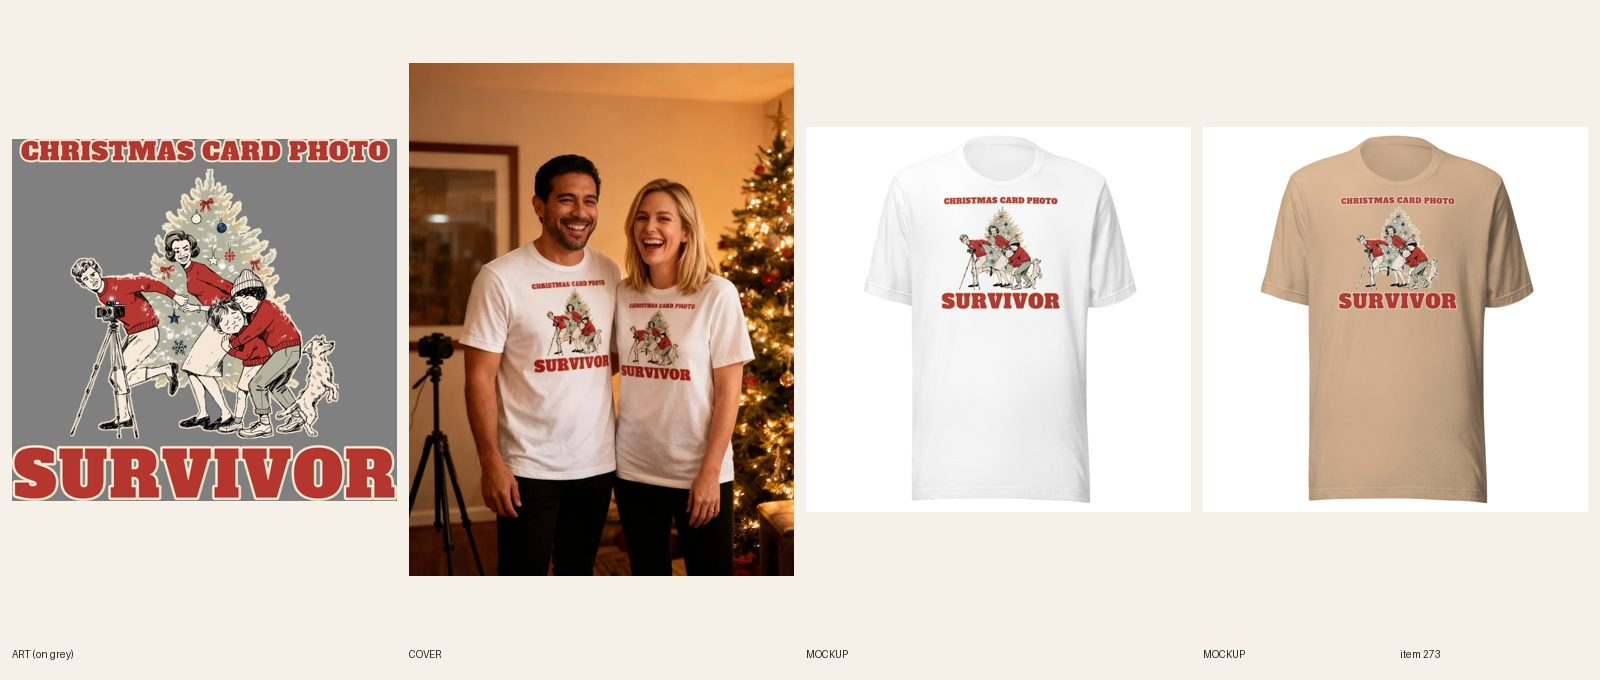
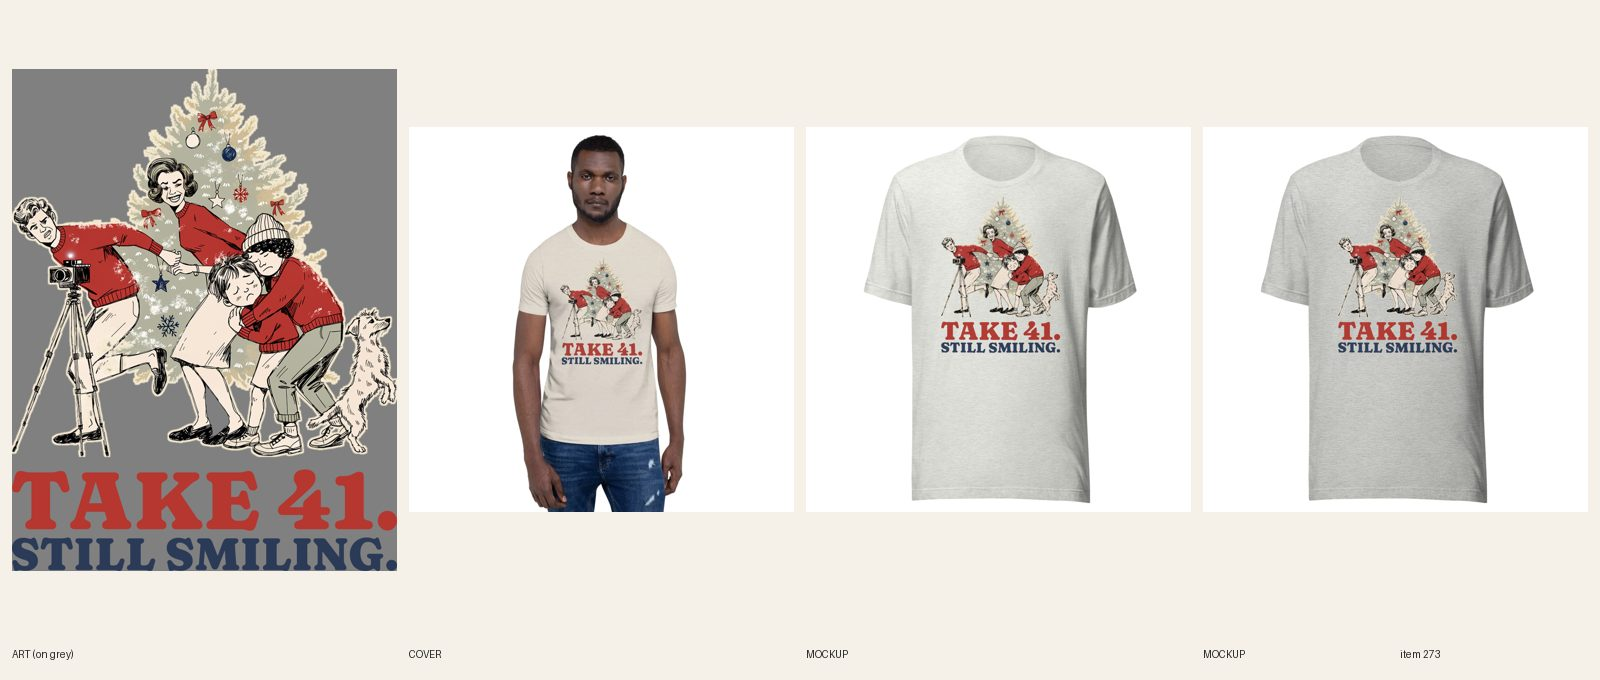
[A] review 273 Card Photo redo: Take 41. Still Smiling. heavy type, Printful lifestyle cover

diff --git a/src/data/covers.ts b/src/data/covers.ts
@@ -257,7 +257,7 @@ export const covers: Record<string, { src: string; alt: string }> = {
   'unisex-hanukkah-spin-responsibly-graphic-tee': { src: '/covers/unisex-hanukkah-spin-responsibly-graphic-tee.webp', alt: 'Man and woman in navy Spin Responsibly Hanukkah graphic tees at a friends game night in a bright white kitchen with gold gelt on the counter' },
   'unisex-christmas-garden-variety-grump-graphic-tee': { src: '/covers/unisex-christmas-garden-variety-grump-graphic-tee.webp', alt: 'Man and woman in white I\'ll Be Pleasant Till New Year\'s Christmas gnome graphic tees in a living room on Christmas morning with a tree and torn wrapping paper' },
   'womens-christmas-tied-up-for-the-holidays-graphic-tee': { src: '/covers/womens-christmas-tied-up-for-the-holidays-graphic-tee.webp', alt: 'Woman in her late 20s with a dark ponytail and gold hoops in a white Tied Up for the Holidays tartan bow Christmas tee in a living room with a lit tree, gifts and cocoa' },
-  'unisex-christmas-card-photo-survivor-graphic-tee': { src: '/covers/unisex-christmas-card-photo-survivor-graphic-tee.webp', alt: 'Man and woman laughing in matching white Christmas Card Photo Survivor graphic tees in front of a lit tree with a camera on a tripod' },
+  'unisex-christmas-card-photo-survivor-graphic-tee': { src: '/covers/unisex-christmas-card-photo-survivor-graphic-tee.webp', alt: 'Man in a heather dust Take 41. Still Smiling. Christmas card photo graphic tee, standing straight on at a white studio backdrop' },
   'unisex-christmas-card-photo-survivor-crewneck-sweatshirt': { src: '/covers/unisex-christmas-card-photo-survivor-crewneck-sweatshirt.webp', alt: 'Man and woman laughing in matching navy Christmas Card Photo Survivor crewneck sweatshirts on a snowy front porch with a wreath on the door' },
   'womens-christmas-christmas-plans-the-barn-western-graphic-tee': { src: '/covers/womens-christmas-christmas-plans-the-barn-western-graphic-tee.webp', alt: 'Woman in her late 20s with long wavy brown hair and a cream cardigan in a white Christmas Plans: The Barn western Christmas tee in a red barn aisle with a horse in a Santa hat' },
   'womens-christmas-christmas-plans-the-barn-western-crewneck-sweatshirt': { src: '/covers/womens-christmas-christmas-plans-the-barn-western-crewneck-sweatshirt.webp', alt: 'Woman in her late 20s with a long auburn braid in a light pink Christmas Plans: The Barn western crewneck sweatshirt at a snowy paddock fence with a chestnut horse behind her' },

diff --git a/designs/a273/build.py b/designs/a273/build.py
@@ -1,0 +1,26 @@
+#!/usr/bin/env python3
+"""#273 quality-reset print: Card Photo art (cropped from the live print, old CHRISTMAS CARD PHOTO / SURVIVOR slab lines dropped)
+over a stacked lockup TAKE 41. / STILL SMILING. in Fraunces Black (1960s storybook serif), both lines full width. usage: build.py <src.png> <out.png>"""
+import sys
+from pathlib import Path
+from PIL import Image, ImageDraw, ImageFont
+ROOT = Path(__file__).resolve().parents[2]; F = ROOT / 'designs' / 'fonts'
+src, out = sys.argv[1:3]
+W = 3400
+a = Image.open(src).convert('RGBA')
+art = a.crop((0, 243, a.width, 2438)); art = art.crop(art.getbbox())
+art = art.resize((W, int(art.height * W / art.width)), Image.LANCZOS)
+def line(text, fill, width, size=900):
+    f = ImageFont.truetype(str(F / 'Fraunces[SOFT,WONK,opsz,wght].ttf'), size)
+    f.set_variation_by_axes([24, 900, 100, 0])  # opsz, wght, SOFT, WONK
+    bb = f.getbbox(text)
+    img = Image.new('RGBA', (bb[2] + 40, bb[3] + 40), (0, 0, 0, 0))
+    ImageDraw.Draw(img).text((10, 10), text, font=f, fill=fill)
+    img = img.crop(img.getbbox())
+    return img.resize((width, int(img.height * width / img.width)), Image.LANCZOS)
+h = line('TAKE 41.', '#b5372f', W); s = line('STILL SMILING.', '#2b3a57', W)
+g1, g2 = 110, 60
+c = Image.new('RGBA', (W, art.height + g1 + h.height + g2 + s.height), (0, 0, 0, 0))
+c.alpha_composite(art, (0, 0)); c.alpha_composite(h, (0, art.height + g1)); c.alpha_composite(s, (0, art.height + g1 + h.height + g2))
+c = c.crop(c.getbbox()); c.save(out, dpi=(300, 300))
+print(out, c.size, 'head h', h.height, 'sub h', s.height, 'ratio %.2f' % (s.height / h.height))

diff --git a/docs/pipeline/273-christmas-card-photo-survivor.md b/docs/pipeline/273-christmas-card-photo-survivor.md
@@ -1,4 +1,4 @@
-status: BUILDING [A]
+status: REVIEW
 lane: A
 type: new
 id: 273
@@ -29,3 +29,4 @@ kd: 52
 - 2026-10-18 03:42 UTC builder [A]: BUILT. Art: 1 Recraft call ($0.04, picture only: 1960s Christmas-card scene, dad running back to a tripod camera, mom's teeth smile, mid-blink kid, dog on its hind legs looking away). CHRISTMAS CARD PHOTO (top) and SURVIVOR (larger, below) in Alfa Slab One, red with a cream outline (real fonts R4.8). The brief asks for an arch; compose-print cannot arch, so the lines are straight and the copy says so; white gaps knocked out. Print 3129x2946, Printful file 1088670910, FW 1650, 42/42 variants linked, back logo kept. Shopify DRAFT (gid 15363032908080, BC 3001, White/Natural/Heather Dust/Athletic Heather/Ash/Tan x S-4XL, $24.99 no compare-at): copy and SEO rewritten to the real art, primary 'funny family christmas shirts' in title-area SEO and line one, FAQs 5 x 45-52 words incl. order-by Dec 8. Mockups for all 6 colors + back, each color on its own photo; the small top line is legible at 400 px. Cover regs #451/#452 couple (generated look logged; reserved faces stay free), seedream 1 attempt: both prints legible, camera on a tripod, nothing over a print. fal ~$0.10. Audit script not runnable on drafts here; astro build passes.
 - 2026-10-18 04:20 UTC director: LIVE. Sheet reviewed: 1960s card scene reads, both prints legible on the couple cover, man + woman (R6.3). Added funny-christmas-shirts and christmas-shirts-for-men (R7.5). ACTIVE, published (Online Store, headless, Google, Copilot, Meta). Audit --handle PASS.
 - 2026-10-18 17:22 UTC director: QUALITY RESET grade C (new line + type), REDO. The product stays ACTIVE (same handle, URL, title keyword). 1. Line (R3.12, quality-reset 'Lines'): "CHRISTMAS CARD PHOTO / SURVIVOR": Stock "___ survivor" template, smile not a laugh. Write 5 candidates, keep the one a stranger laughs at in 3 seconds without backstory; kill lines that only describe the picture; if none of the 5 is funny, PARK it. 2. Quality reset type bar (docs/backlog/quality-reset.md, 'The new bar'): headline at least 90% of the art width, heavy, colors pulled from the art; second line at least 45% of the headline's height, never a thin script on a dark or mid garment; use the lettering as a shape (arch, stacked lockup, words breaking into the art), not a plain bar above and a script line below; no font used on more than 1 in 6 of the last 30 designs. 3. Keep the art if it carries the new line, else one new illustration (R4/R5). New print means a new cover per R6.10, copy line one rewritten for the new joke (R8.3), and a fresh review sheet (R7.7). While quality-reset.md says PAUSED, only lane A builds, and only the samples step 2 names.
+- 2026-10-18 21:08 UTC builder [A]: quality-reset REDO sample 5 of 5. Five candidates (R3.12): CHRISTMAS CARD PHOTO SURVIVOR (old, stock template) / TAKE 41. STILL SMILING. / WE'RE ALL SMILING. DON'T ASK ABOUT TAKE 41. / SMILE OR SLEEP IN THE GARAGE. / TAKE 41. NOBODY'S FORGIVEN ANYONE.; kept #2, short, a stranger gets it in 3 s and the art (mom gripping dad, crying kid) is the punchline. Art: same card-photo picture, old two Alfa Slab lines dropped (fal $0). Type: Fraunces Black soft (new to this batch, 1960s storybook serif), TAKE 41. red #b5372f and STILL SMILING. navy #2b3a57 (from the sweaters/ornaments), both 3400 px = 100% of art width, second line 54% of headline height, no script. Light colors only, solid dark ink (light file: n/a, no light-ink headline). Printful file 1089114360 (3400x4433), FW 1650 TOP 75, 42/42 relinked (FORCE), back logo kept. New fronts for all 6 colors + back attached, each color's variants on its own photo, old media deleted. Cover: Printful lifestyle Men's 2 Front (style 798) on Heather Dust, plain studio, nothing over the print (the Couple's style 742 had the woman's hands over the period of SMILING., rejected), alt starts Man; graphic-tees-for-women tag removed (unisex audit: cover shows only a man, same as #624). Copy: line one, SEO, FAQ 2 rewritten for the new line and the ink; 5 FAQs 40-60 words incl. order-by Dec 8. design-crops rerun, astro build OK. Twin #274 (crewneck) still carries the old line. Product stays ACTIVE. Needs Sam's look.

diff --git a/docs/intake-log.md b/docs/intake-log.md
@@ -1,4 +1,4 @@
-2026-10-18 20:58 UTC — [A] RUNNING lane A since 2026-10-18 20:58 UTC
+2026-10-18 21:12 UTC — [A] Builder run: quality-reset sample REDO #273 Christmas Card Photo Survivor tee -> TAKE 41. / STILL SMILING. (Fraunces Black, full width), Printful lifestyle cover (Men's 2), 42/42 relinked at FW 1650, REVIEW (stays ACTIVE). Sample 5 of 5 done (#577 #624 #245 #275 #273); samples ready for Sam. Lock released.
 2026-10-18 20:46 UTC — [H] Helper run: Telegram inbox empty (getUpdates returned 0 updates; no pause, resume or TikTok links; nothing to consume). Audit (597 live products): 0 errors, 30 warnings left alone (polish); no meta, SEO or collection fixes needed; no price errors, announcement bar already on the holiday line. Category check (one-time rule, still checking): 0 products without a category (positive control returns aa-1-13-8). Site freshness: mens-hockey-not-weird-just-the-goalie-graphic-tee, mens-grandpa-papa-where-dad-got-his-jokes-crewneck-sweatshirt, womens-nana-mom-said-no-thats-cute-crewneck-sweatshirt all 200. Stuck check: none (no BUILDING status in docs/pipeline; no lane RUNNING lock). Daily summary not due (midday digest sent 12:24 UTC today). Housekeeping: the 50 stale local main commits from 2026-10-16 to 2026-10-18 are kept on local branch backup-stale-local-main-2026-10-18 (beba925); main reset to origin/main. Lock released.
 2026-10-18 20:14 UTC — [D] Director run (quality reset still PAUSED, step 1 only): no designs went LIVE since the 17:23 grading, so nothing new to grade. Published nothing, reviewed no REVIEW items (samples #577, #624, #245 are 3 of 5 at REVIEW for Sam), wrote no briefs, sent no Telegram. Lock not held.
 2026-10-18 20:31 UTC — [A] Builder run: quality-reset sample REDO #275 White Elephant Champion tee -> I STOLE IT. / I'M KEEPING IT. (Bowlby One, full width), Printful lifestyle cover, 47/47 relinked at FW 1500, REVIEW (stays ACTIVE). Sample 4 of 5 (Printful call worked this time). Next: 1 more from the C list. Lock released.
